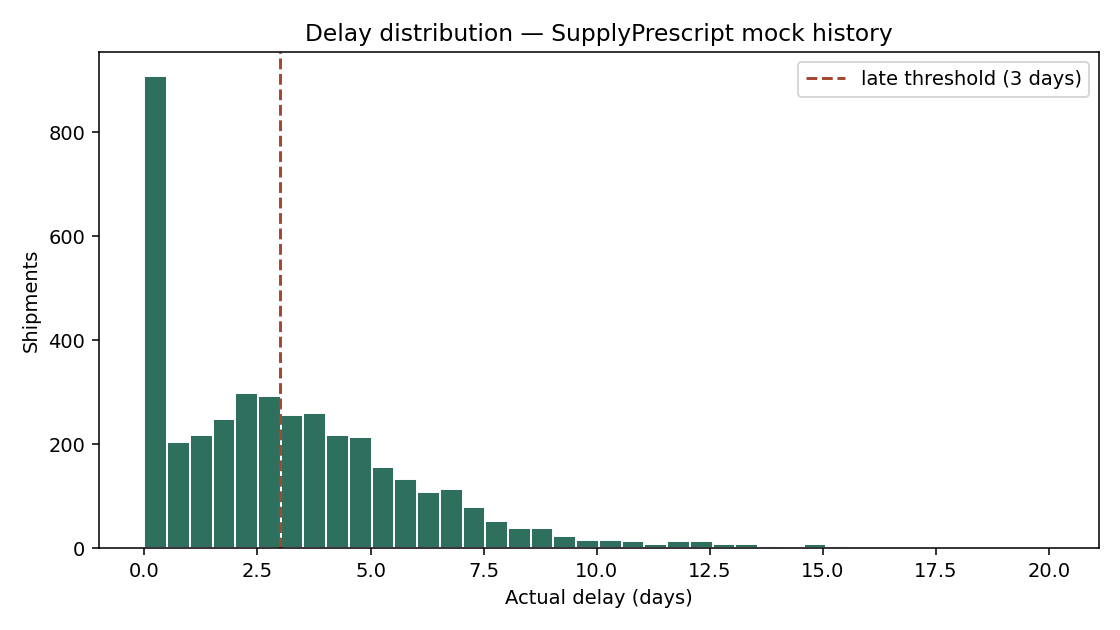
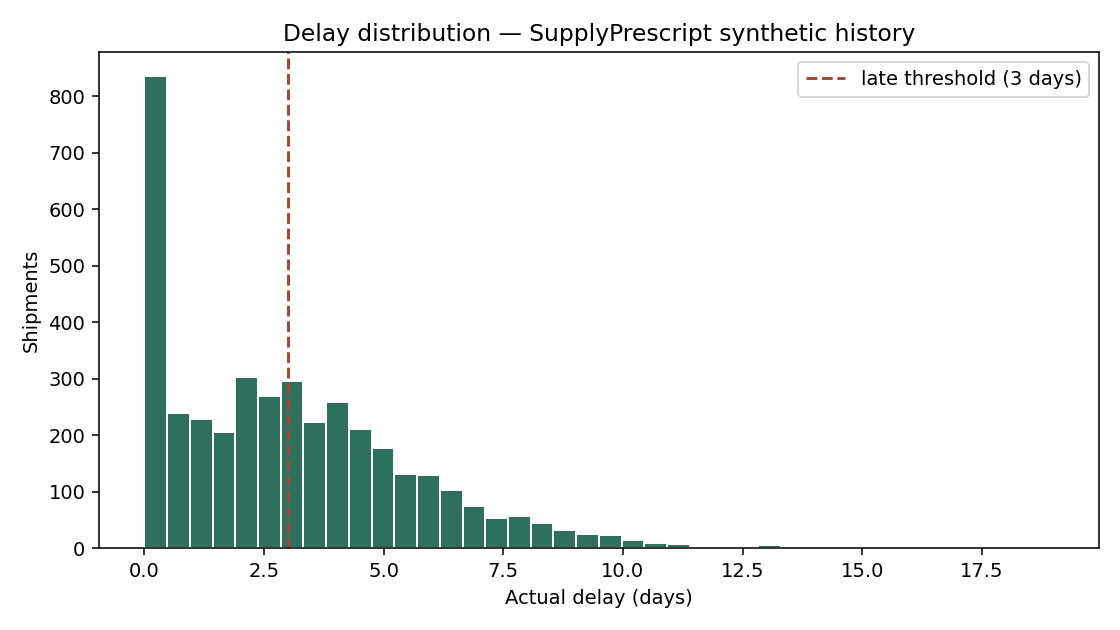
Surface the calendar bad quarter in EDA charts
Summarize Delta Cove Q3 deterioration and add a monthly delay figure so
temporal supplier risk is visible in the portfolio story.

diff --git a/week1/explore_data.py b/week1/explore_data.py
@@ -38,6 +38,8 @@ def summarize(df: pd.DataFrame) -> None:
     print(f"rows: {len(df):,}")
     print(f"suppliers: {df['supplier'].nunique()}")
     print(f"skus: {df['sku'].nunique()}")
+    if "shipment_date" in df.columns:
+        print(f"date range: {df['shipment_date'].min()} .. {df['shipment_date'].max()}")
     print()
     print("Delay days by supplier (mean / p90):")
     by_supplier = df.groupby("supplier")["actual_delay_days"].agg(["mean", lambda s: s.quantile(0.9)])
@@ -48,6 +50,20 @@ def summarize(df: pd.DataFrame) -> None:
     print(f"share of shipments late > 3 days: {late_rate:.1%}")
     peak = df.groupby("is_peak_season")["actual_delay_days"].mean()
     print(f"mean delay off-peak vs peak: {peak.get(False, float('nan')):.2f}d / {peak.get(True, float('nan')):.2f}d")
+    if "shipment_date" in df.columns:
+        delta = df[df["supplier"] == "Delta Cove Electronics"].copy()
+        delta["shipment_date"] = pd.to_datetime(delta["shipment_date"])
+        bad = delta[
+            (delta["shipment_date"] >= "2024-07-01") & (delta["shipment_date"] <= "2024-09-30")
+        ]
+        other = delta[
+            ~((delta["shipment_date"] >= "2024-07-01") & (delta["shipment_date"] <= "2024-09-30"))
+        ]
+        if len(bad) and len(other):
+            print(
+                f"Delta Cove mean delay bad-quarter vs other: "
+                f"{bad['actual_delay_days'].mean():.2f}d / {other['actual_delay_days'].mean():.2f}d"
+            )
 
 
 def plot_delay_distribution(df: pd.DataFrame) -> Path:
@@ -56,7 +72,7 @@ def plot_delay_distribution(df: pd.DataFrame) -> Path:
     ax.axvline(3, color="#a4462f", linestyle="--", label="late threshold (3 days)")
     ax.set_xlabel("Actual delay (days)")
     ax.set_ylabel("Shipments")
-    ax.set_title("Delay distribution — SupplyPrescript mock history")
+    ax.set_title("Delay distribution — SupplyPrescript synthetic history")
     ax.legend()
     fig.tight_layout()
     out = FIG_DIR / "delay_distribution.png"
@@ -102,6 +118,30 @@ def plot_peak_effect(df: pd.DataFrame) -> Path:
     return out
 
 
+def plot_delta_cove_bad_quarter(df: pd.DataFrame) -> Path | None:
+    """Show calendar-bounded supplier deterioration (not a row-index shock)."""
+    if "shipment_date" not in df.columns:
+        return None
+    delta = df[df["supplier"] == "Delta Cove Electronics"].copy()
+    if delta.empty:
+        return None
+    delta["shipment_date"] = pd.to_datetime(delta["shipment_date"])
+    delta = delta.sort_values("shipment_date")
+    monthly = delta.set_index("shipment_date")["actual_delay_days"].resample("MS").mean()
+
+    fig, ax = plt.subplots(figsize=(9, 4.5))
+    ax.plot(monthly.index, monthly.values, color="#1c2430", marker="o", markersize=3)
+    ax.axvspan(pd.Timestamp("2024-07-01"), pd.Timestamp("2024-09-30"), color="#a4462f", alpha=0.2, label="Bad quarter")
+    ax.set_ylabel("Mean delay (days)")
+    ax.set_title("Delta Cove — monthly mean delay (calendar bad quarter)")
+    ax.legend()
+    fig.tight_layout()
+    out = FIG_DIR / "delta_cove_bad_quarter.png"
+    fig.savefig(out, dpi=140)
+    plt.close(fig)
+    return out
+
+
 def main() -> None:
     FIG_DIR.mkdir(parents=True, exist_ok=True)
     df = load()
@@ -111,6 +151,9 @@ def main() -> None:
         plot_delay_by_supplier(df),
         plot_peak_effect(df),
     ]
+    bad_q = plot_delta_cove_bad_quarter(df)
+    if bad_q is not None:
+        paths.append(bad_q)
     print()
     print("figures written:")
     for path in paths:
